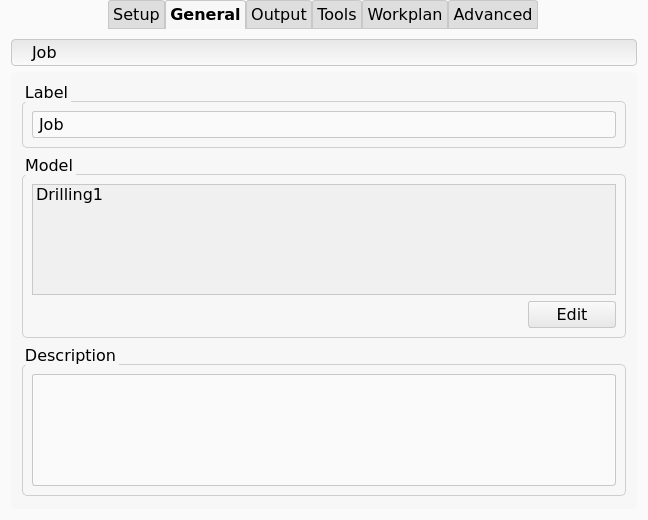
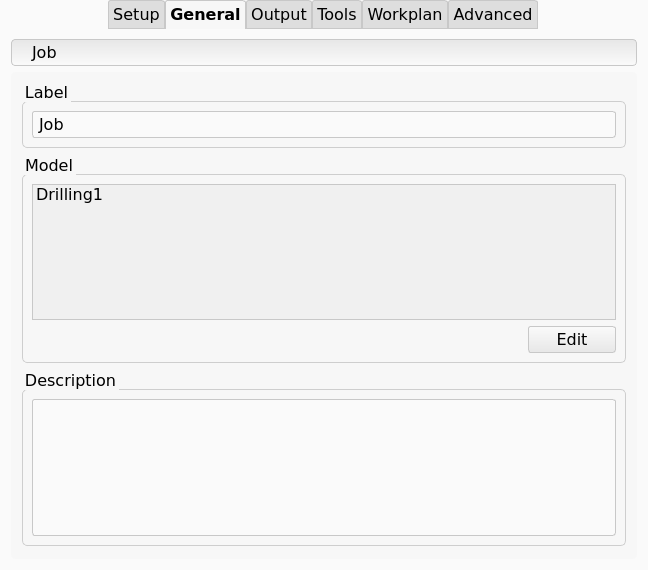
gypsy: corrections from the first iteration
- CI: a lint finding does not stop the build; the result is in the preview comment.
- lint: a real NOTE: is not an imitation admonition; an old figure without a manifest entry is
  a warning.
- draft: two lint correction attempts; the drafter keeps figures and admonitions.
- capture: a panel inside the main window is captured with its background; shot.job_panel();
  a recipe file that starts with _ is a helper.
- status: a delivered cluster holds no page.
- All seven figures captured again from FreeCAD main 62544c4c6e8.

diff --git a/gypsy/lint.py b/gypsy/lint.py
@@ -12,7 +12,8 @@ does not fail on the old lines. Checks:
   since      [.since] marker not in the form `[.since]#introduced in 26.3#`
   admonition imitation admonition (*_Note_*:, *NOTE*:, Note: paragraph) or TIP:/IMPORTANT:
   heading    level-2 heading outside the command-page skeleton, or out of order
-  image      block image without alt text, with a width= attribute, or missing a manifest entry
+  image      block image without alt text or with a width= attribute; a block image without a
+             manifest entry is a warning and does not change the exit code
   sentence   sentence over 30 words
   xref       bare <<...>> cross-page reference, a link to the published site, or an xref whose target page does not exist
   attribute  {name} outside a code block that is not a known attribute (Asciidoctor drops it)
@@ -26,7 +27,8 @@ SKELETON = ["Description", "Usage", "Options", "Properties", "Strategies",
             "Notes and limitations", "Scripting", "Related"]
 SINCE_OK = re.compile(r"\[\.since\]#introduced in \d+(?:\.\d+)?#")
 SINCE_ANY = re.compile(r"\[\.since\]#[^#]*#")
-IMITATION = re.compile(r"^(\*_?Note_?\*:?|\*NOTE\*:?|Note:|NOTE\s*[-–:]|\*Important Note)", re.I)
+# Case matters: `NOTE:` is the real admonition, `Note:` and `NOTE -` are imitations.
+IMITATION = re.compile(r"^(\*_?[Nn]ote_?\*:?|\*NOTE\*:?|Note:|NOTE\s*[-–]|\*[Ii]mportant [Nn]ote)")
 BLOCK_IMG = re.compile(r"^image::([^\[]+)\[([^\]]*)\]")
 XREF = re.compile(r"xref:([A-Za-z0-9_./-]+\.adoc)")
 ATTR = re.compile(r"(?<!\\)\{([a-zA-Z][a-zA-Z0-9_-]*)\}")
@@ -113,7 +115,10 @@ def lint_file(path, terms, style, ok, manifest):
             if "width=" in attrs:
                 err(i, "image", f"use positional width, not width=: {target}")
             if manifest is not None and target not in manifest:
-                err(i, "image", f"no images/manifest.yml entry: {target}")
+                # An old figure is replaced when its page is revised (STYLE.md §10.3); until then it
+                # is better than no figure, so this does not fail the page.
+                out.append({"file": path, "line": i, "kind": "image", "level": "warning",
+                            "msg": f"no images/manifest.yml entry: {target}"})
             continue
         # xrefs
         if re.search(r"<<[^>,]*\.adoc[^>]*>>", line):
@@ -198,16 +203,18 @@ def main():
             if changed is not None:
                 found = [f for f in found if f["line"] in changed]
         findings += found
+    errors = [f for f in findings if f.get("level") != "warning"]
     if a.json:
         print(json.dumps(findings, indent=1))
     else:
         for f in findings:
-            print(f"{f['file']}:{f['line']}: {f['kind']}: {f['msg']}")
+            print(f"{f['file']}:{f['line']}: {'warning: ' if f.get('level') == 'warning' else ''}{f['kind']}: {f['msg']}")
         by = {}
-        for f in findings:
+        for f in errors:
             by[f["kind"]] = by.get(f["kind"], 0) + 1
-        print(f"-- {len(findings)} findings " + " ".join(f"{k}={v}" for k, v in sorted(by.items())), file=sys.stderr)
-    sys.exit(1 if findings else 0)
+        print(f"-- {len(errors)} findings " + " ".join(f"{k}={v}" for k, v in sorted(by.items()))
+              + (f" ({len(findings) - len(errors)} warnings)" if len(findings) != len(errors) else ""), file=sys.stderr)
+    sys.exit(1 if errors else 0)
 
 
 if __name__ == "__main__":

diff --git a/gypsy/capture_host.py b/gypsy/capture_host.py
@@ -10,6 +10,7 @@ The recipe gets a Shot object:
     shot.new_job(models)     create a Job for the model objects, without the task panel
     shot.new_operation(m, j) create the operation of GUI module m in Job j, without the task panel
     shot.view(w, h)          capture the 3D view: isometric, fitted, plain background
+    shot.job_panel(job, tab) open the Job task panel on a tab (by its title) and return the panel
 """
 import contextlib
 import io
@@ -78,7 +79,14 @@ class Shot:
                 focus.deselect()
             focus.clearFocus()
             self.settle(100)
-        if not w.grab().save(self.out, "PNG"):
+        top = w.window()
+        if top is w:
+            image = w.grab()
+        else:
+            # A panel inside the main window has no background of its own. Capture its area of
+            # the window, so that the figure shows what the reader sees.
+            image = top.grab(QtCore.QRect(w.mapTo(top, QtCore.QPoint(0, 0)), w.size()))
+        if not image.save(self.out, "PNG"):
             raise RuntimeError(f"cannot write {self.out}")
         self.saved = True
 
@@ -120,6 +128,19 @@ class Shot:
         op.Document.recompute()
         self.settle()
         return op
+
+    def job_panel(self, job, tab):
+        """Open the task panel of the Job and select the tab with this title. Returns the panel
+        widget, for shot.widget()."""
+        job.ViewObject.Document.setEdit(job.ViewObject, 0)
+        self.settle(800)
+        form = job.ViewObject.Proxy.taskPanel.form
+        titles = [form.tabText(i).replace("&", "") for i in range(form.count())]
+        if tab not in titles:
+            raise KeyError(f"the Job task panel has no tab '{tab}'; it has {titles}")
+        form.setCurrentIndex(titles.index(tab))
+        self.settle(500)
+        return form
 
     def view(self, width=1200, height=900, fit=None):
         """Capture the 3D view, isometric, fitted to `fit` (default: the Stock of the first Job,

diff --git a/gypsy/draft.py b/gypsy/draft.py
@@ -129,6 +129,7 @@ MODES = {
               "only when `unverified` is not empty; otherwise leave `:page-status:` as it is."),
 }
 SIBLING_BUDGET = 70_000
+FIX_ATTEMPTS = 2            # lint corrections before the pull request opens with lint-failed
 
 
 def outline(text):
@@ -199,10 +200,14 @@ def draft_page(page, vs, mode, facts_files, siblings, model, dry=False, base="or
     os.makedirs(os.path.dirname(page_path), exist_ok=True)
     open(page_path, "w", encoding="utf-8").write(res["page_text"].rstrip("\n") + "\n")
     report, rc = lint(page_path, since)
-    if rc != 0:
+    for _ in range(FIX_ATTEMPTS):
+        if rc == 0:
+            break
         fix_prompt = (prompt + "\n\n# Your previous draft\n\n" + res["page_text"] +
                       "\n\n# gypsy lint findings on it\n\nFix every finding and return the full page again, "
-                      "with the same JSON fields.\n\n" + report)
+                      "with the same JSON fields. A line that starts with 'warning:' is not a finding. Do not "
+                      "remove a figure, an admonition or a fact to make a finding go away; if a finding cannot "
+                      "be fixed without a loss of content, keep the content and say so in `notes`.\n\n" + report)
         res2, run2 = ask(fix_prompt, model, schema)
         runs.append(run2)
         res2.setdefault("changes", res["changes"])

diff --git a/gypsy/status.py b/gypsy/status.py
@@ -115,6 +115,7 @@ def add_lint_and_figures(pages):
         if not rec["exists"]:
             continue
         found = lint.lint_file(os.path.join(PAGES, rel), terms, style, ok, manifest)
+        found = [f for f in found if f.get("level") != "warning"]
         rec["lint"] = len(found)
         rec["lint_kinds"] = dict(collections.Counter(f["kind"] for f in found))
         images = [t.strip() for t in BLOCK_IMG.findall(rec["text"])]
@@ -167,6 +168,10 @@ def add_work(pages, offline):
         for c in clusters.values():
             if c["issue"]:
                 c["state"] = "open" if c["issue"] in open_numbers else "closed"
+                if c["state"] == "closed":                    # delivered: it holds no page now
+                    for p in c["pages"]:
+                        if p in pages and pages[p]["cluster"] in clusters and clusters[pages[p]["cluster"]] is c:
+                            pages[p]["cluster"] = None
     except Exception as exc:                                  # no network, no login
         info["error"] = str(exc)[:200]
     return info

diff --git a/gypsy/capture.py b/gypsy/capture.py
@@ -7,7 +7,7 @@
     python3 gypsy/capture.py --all --freecad ~/FreeCAD/build/bin/FreeCAD   # a different build
 
 A recipe is modules/ROOT/images/recipes/<page>/<what>.py. It sets PAGE, ALT and defines
-capture(shot); see gypsy/capture_host.py for the shot object. The image is written to
+capture(shot); a file whose name starts with "_" is a helper that recipes import; see gypsy/capture_host.py for the shot object. The image is written to
 modules/ROOT/images/<page>/<what>.png and its entry in modules/ROOT/images/manifest.yml is
 replaced (STYLE.md §10.3).
 
@@ -134,7 +134,8 @@ def main():
     names = list(a.recipes)
     if a.all:
         names = sorted(os.path.relpath(p, RECIPES)[:-3]
-                       for p in glob.glob(os.path.join(RECIPES, "**/*.py"), recursive=True))
+                       for p in glob.glob(os.path.join(RECIPES, "**/*.py"), recursive=True)
+                       if not os.path.basename(p).startswith("_"))      # _name.py: shared helper
     if not names:
         ap.error("give a recipe name or --all")
     if not shutil.which("Xvfb"):

diff --git a/modules/ROOT/images/recipes/job/job/_panel.py b/modules/ROOT/images/recipes/job/job/_panel.py
@@ -1,0 +1,15 @@
+# SPDX-License-Identifier: LGPL-2.1-or-later
+"""Shared by the Job task panel recipes: a Job with two Operations, and its task panel on one tab."""
+
+
+def capture_panel(shot, tab):
+    doc = shot.open_model("drilling-1")
+    job = shot.new_job([doc.getObject("Body")])
+    tc = job.Tools.Group[0]                       # feeds and speed, so that the Workplan shows times
+    tc.HorizFeed = "600 mm/min"
+    tc.VertFeed = "200 mm/min"
+    tc.SpindleSpeed = 12000
+    shot.new_operation("Path.Op.Gui.Profile", job)
+    shot.new_operation("Path.Op.Gui.Drilling", job)
+    doc.recompute()
+    shot.widget(shot.job_panel(job, tab))

diff --git a/modules/ROOT/images/recipes/job/job/task-panel-workplan.py b/modules/ROOT/images/recipes/job/job/task-panel-workplan.py
@@ -8,7 +8,7 @@ ALT = "Job task panel, Workplan tab, with a Profile and a Drilling Operation"
 
 
 def capture(shot):
-    sys.path.insert(0, os.path.join(os.path.dirname(__file__), "../../../recipes-lib"))
-    import job_panel
+    sys.path.insert(0, os.path.dirname(__file__))
+    import _panel
 
-    job_panel.capture_panel(shot, "workplan")
+    _panel.capture_panel(shot, "Workplan")

diff --git a/modules/ROOT/images/recipes/job/job/task-panel-output.py b/modules/ROOT/images/recipes/job/job/task-panel-output.py
@@ -8,7 +8,7 @@ ALT = "Job task panel, Output tab, with Machine set to (Legacy post-processor)"
 
 
 def capture(shot):
-    sys.path.insert(0, os.path.join(os.path.dirname(__file__), "../../../recipes-lib"))
-    import job_panel
+    sys.path.insert(0, os.path.dirname(__file__))
+    import _panel
 
-    job_panel.capture_panel(shot, "output")
+    _panel.capture_panel(shot, "Output")

diff --git a/modules/ROOT/images/recipes/job/job/task-panel-setup.py b/modules/ROOT/images/recipes/job/job/task-panel-setup.py
@@ -8,7 +8,7 @@ ALT = "Job task panel, Setup tab, with the Layout section open"
 
 
 def capture(shot):
-    sys.path.insert(0, os.path.join(os.path.dirname(__file__), "../../../recipes-lib"))
-    import job_panel
+    sys.path.insert(0, os.path.dirname(__file__))
+    import _panel
 
-    job_panel.capture_panel(shot, "setup")
+    _panel.capture_panel(shot, "Setup")

diff --git a/modules/ROOT/images/recipes/job/job/task-panel-tools.py b/modules/ROOT/images/recipes/job/job/task-panel-tools.py
@@ -8,7 +8,7 @@ ALT = "Job task panel, Tools tab, with one Tool Controller"
 
 
 def capture(shot):
-    sys.path.insert(0, os.path.join(os.path.dirname(__file__), "../../../recipes-lib"))
-    import job_panel
+    sys.path.insert(0, os.path.dirname(__file__))
+    import _panel
 
-    job_panel.capture_panel(shot, "tools")
+    _panel.capture_panel(shot, "Tools")

diff --git a/modules/ROOT/images/recipes/job/job/task-panel-general.py b/modules/ROOT/images/recipes/job/job/task-panel-general.py
@@ -8,7 +8,7 @@ ALT = "Job task panel, General tab"
 
 
 def capture(shot):
-    sys.path.insert(0, os.path.join(os.path.dirname(__file__), "../../../recipes-lib"))
-    import job_panel
+    sys.path.insert(0, os.path.dirname(__file__))
+    import _panel
 
-    job_panel.capture_panel(shot, "general")
+    _panel.capture_panel(shot, "General")

diff --git a/gypsy/prompts/draft.md b/gypsy/prompts/draft.md
@@ -16,7 +16,11 @@ Rules:
   or says, write what the code establishes and list the claim in `unverified`.
 - Do not invent properties, defaults, enumeration values, menu paths or button labels. If a
   value is not in the diff, the facts, or the page, leave it out and list it in `unverified`.
-- Keep existing images unless they show a control the diffs removed; do not add image macros for
+- Keep existing images unless they show a control the diffs removed. An old image without a
+  manifest entry stays; when it shows the interface wrongly, keep it and list its replacement in
+  `figures_wanted`. Do not write a sentence that says a figure is wrong.
+- Keep existing `NOTE:`, `WARNING:` and `CAUTION:` admonitions that are still true.
+- Images, continued: do not add image macros for
   figures that do not exist. Where a new figure is warranted, list it in `figures_wanted` as
   `<page>/<what>.png: <what it should show>`.
 - Keep the `[.fcinfobox]` block on command pages and update its fields.
